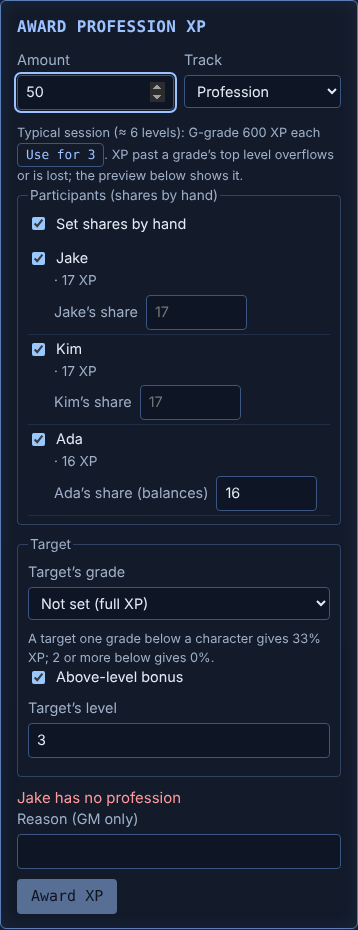
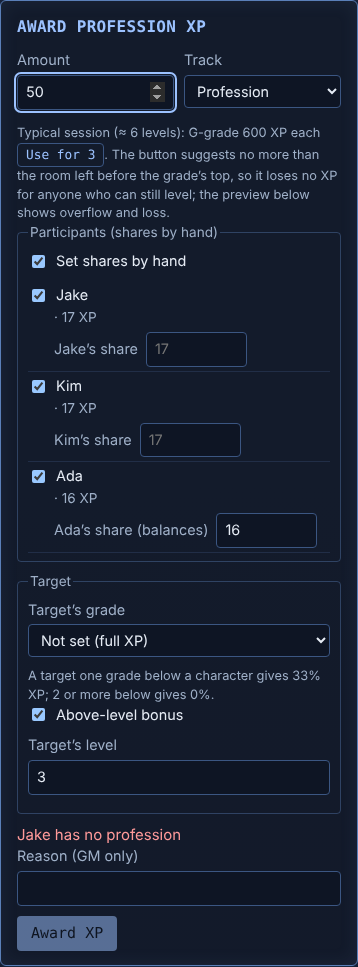
fix(M4.6): review round 2: typical-session button suggests no more than the room left (xpRoom, typicalSessionAward), disabled with none; no level alert before typing; by-hand toggle stays; M4.6 box
Claude-Session: https://claude.ai/code/session_01K2rTSae7CMw5DvYtxWoQVi

diff --git a/apps/web/src/gm/XpAward.tsx b/apps/web/src/gm/XpAward.tsx
@@ -2,6 +2,7 @@ import { useState, type FormEvent } from 'react';
 import {
   balancedShares,
   previewXpShares,
+  typicalSessionAward,
   typicalSessionXp,
   type CampaignState,
   type XpPreview,
@@ -55,7 +56,8 @@ export function XpAward({ client, state }: { client: LiveClient; state: Campaign
       ? balancedShares(value, chosen.length, fixed)
       : null;
   if (amount.trim() !== '' && !amountOk) shareError = 'The amount must be a whole number above 0';
-  else if (!levelOk) shareError = 'The target’s level must be a whole number of 0 or more';
+  else if (!levelOk && enemyLevel.trim() !== '')
+    shareError = 'The target’s level must be a whole number of 0 or more';
   if (amountOk && shares === null && shareError === null && chosen.length > 0) {
     shareError = `The shares add up to more than ${value} XP`;
   }
@@ -167,24 +169,41 @@ export function XpAward({ client, state }: { client: LiveClient; state: Campaign
             <span key={g}>
               {i > 0 && ' · '}
               {g}-grade {typicalSessionXp(rules, g).toLocaleString('en-US')} XP each{' '}
-              <button
-                type="button"
-                className="secondary small"
-                onClick={() => {
-                  const n = chosen.filter((id) => state.characters[id]?.grade === g).length;
-                  setAmount(String(typicalSessionXp(rules, g) * n));
-                }}
-              >
-                Use for {chosen.filter((id) => state.characters[id]?.grade === g).length}
-              </button>
+              {(() => {
+                const group = chosen
+                  .map((id) => state.characters[id])
+                  .filter((c): c is NonNullable<typeof c> => c?.grade === g);
+                const suggested = typicalSessionAward(rules, g, group);
+                return (
+                  <button
+                    type="button"
+                    className="secondary small"
+                    disabled={suggested === 0}
+                    title={
+                      group.length === 0
+                        ? `No chosen ${g}-grade participants`
+                        : suggested === 0
+                          ? `Every chosen ${g}-grade participant is at the grade’s top`
+                          : `${suggested.toLocaleString('en-US')} XP, split evenly`
+                    }
+                    onClick={() => {
+                      setAmount(String(suggested));
+                      setResult(null);
+                    }}
+                  >
+                    Use for {group.length}
+                  </button>
+                );
+              })()}
             </span>
           ))}
-          . XP past a grade’s top level overflows or is lost; the preview below shows it.
+          . The button suggests no more than the room left before the grade’s top, so it loses no XP
+          for anyone who can still level; the preview below shows overflow and loss.
         </p>
       )}
       <fieldset>
         <legend>Participants ({byHand ? 'shares by hand' : 'even split'})</legend>
-        {chosen.length > 1 && (
+        {(chosen.length > 1 || byHand) && (
           <label className="check">
             <input
               type="checkbox"

diff --git a/packages/engine/test/xpShares.test.ts b/packages/engine/test/xpShares.test.ts
@@ -5,6 +5,8 @@ import {
   defaultRules,
   previewXpAward,
   previewXpShares,
+  typicalSessionAward,
+  xpRoom,
   type Character,
 } from '../src';
 import { kit } from './helpers/events';
@@ -124,5 +126,44 @@ describe('previewXpShares (M4.6)', () => {
     });
     expect(up!.lost).toBe(0);
     expect(up!.levelUps.some((l) => l.track === 'profession' && l.level === 1)).toBe(true);
+  });
+});
+
+describe('typical-session suggestion (M4.6)', () => {
+  it('xpRoom is the XP left to the grade top on class plus profession', () => {
+    // G top is level 4 at 100 XP per level.
+    expect(xpRoom(rules, make('a'))).toBe(400);
+    expect(xpRoom(rules, { ...make('a'), classLevel: 3, xp: { class: 40, profession: 0 } })).toBe(
+      60,
+    );
+    expect(xpRoom(rules, { ...make('a'), classLevel: 4 })).toBe(0);
+    const e: Character = {
+      ...make('e'),
+      grade: 'E',
+      classLevel: 49,
+      professionLevel: 47,
+      profession: 'Alchemist',
+    };
+    expect(xpRoom(rules, e)).toBe(2 * 900);
+    expect(xpRoom({ ...rules, xp: { ...rules.xp, overflow: false } }, make('a'))).toBe(Infinity);
+  });
+  it('suggests the typical session per head, capped by the least room, and loses nothing', () => {
+    const fresh = [make('a'), make('b'), make('c')];
+    // G typical is 6 × 100 = 600 each, but a fresh G character has 400 of room.
+    const amount = typicalSessionAward(rules, 'G', fresh);
+    expect(amount).toBe(1200);
+    const rows = previewXpAward(rules, { a: fresh[0]!, b: fresh[1]!, c: fresh[2]! }, 'class', {
+      amount,
+      participants: fresh.map((c) => ({ characterId: c.id })),
+    });
+    expect(rows.every((r) => r.lost === 0)).toBe(true);
+    const f: Character = { ...make('f'), grade: 'F', classLevel: 5 };
+    expect(typicalSessionAward(rules, 'F', [f])).toBe(6 * 300);
+  });
+  it('ignores capped characters for the cap and is 0 when nobody has room', () => {
+    const capped: Character = { ...make('x'), classLevel: 4 };
+    expect(typicalSessionAward(rules, 'G', [capped, make('a')])).toBe(800);
+    expect(typicalSessionAward(rules, 'G', [capped])).toBe(0);
+    expect(typicalSessionAward(rules, 'G', [])).toBe(0);
   });
 });

diff --git a/packages/engine/src/progression/xp.ts b/packages/engine/src/progression/xp.ts
@@ -3,6 +3,7 @@ import {
   gradeIndexOf,
   isAtCap,
   raceLevel,
+  trackCap,
   type Character,
   type FreePointBatch,
 } from '../character';
@@ -179,6 +180,41 @@ export function shareXp(
 export function typicalSessionXp(rules: RulesConfig, gradeId: string): number {
   const grade = rules.grades[gradeIndexOf(rules, gradeId)] as GradeRules;
   return rules.campaign.typicalLevelsPerSession * grade.xpPerLevel;
+}
+
+/**
+ * XP a character can still use at its current grade before any is lost
+ * (M4.6): the XP left to the top level on the class track plus, with a
+ * profession, on the profession track. Infinity when `xp.overflow` is off
+ * (older campaigns bank XP at the top).
+ */
+export function xpRoom(rules: RulesConfig, character: Character): number {
+  if (!rules.xp.overflow) return Number.POSITIVE_INFINITY;
+  const top = trackCap(rules, character.grade);
+  const per = xpPerLevel(rules, character);
+  const room = (level: number, xp: number) => Math.max(0, (top - level) * per - xp);
+  const cls = room(character.classLevel, character.xp.class);
+  if (character.profession === null) return cls;
+  return cls + room(character.professionLevel, character.xp.profession);
+}
+
+/**
+ * The "typical session" amount for an even split between these characters of
+ * one grade (M4.6): each gets the typical session's XP, or less when someone
+ * has less room left at the grade (so the helper's own suggestion loses
+ * nothing for anyone who can still level). Characters with no room left still
+ * count as participants but do not lower the amount; 0 when none has room.
+ */
+export function typicalSessionAward(
+  rules: RulesConfig,
+  gradeId: string,
+  characters: readonly Character[],
+): number {
+  const typical = typicalSessionXp(rules, gradeId);
+  const rooms = characters.map((c) => xpRoom(rules, c)).filter((r) => r > 0);
+  if (rooms.length === 0) return 0;
+  const each = Math.min(typical, ...rooms);
+  return each * characters.length;
 }
 
 /** Whole above-level bonus XP on top of a share (floored, float noise removed). */

diff --git a/e2e/M4.6.spec.ts b/e2e/M4.6.spec.ts
@@ -53,10 +53,14 @@ test('the GM previews and awards XP with a custom split', async ({ browser }) =>
   const [jake, kim, ada] = ids as [string, string, string];
 
   const award = gm.getByRole('form', { name: 'Award class XP' });
-  // The typical-session helper fills the amount for the three G-grade characters.
+  // The typical-session helper fills the amount for the three G-grade characters:
+  // 600 each is typical, but a fresh G character has only 400 XP of room, so it
+  // suggests 3 × 400 and nothing is lost.
   await expect(award.getByTestId('typical-session')).toContainText('G-grade 600 XP each');
   await award.getByRole('button', { name: 'Use for 3' }).click();
-  await expect(award.getByLabel('Amount')).toHaveValue('1800');
+  await expect(award.getByLabel('Amount')).toHaveValue('1200');
+  await expect(award.getByTestId(`levels-${jake}`)).toHaveText(' · class lvl 0 → 4');
+  await expect(award.getByTestId('xp-lost')).toHaveCount(0);
 
   // Even split of 1,000: 334 / 333 / 333, each to class level 3 or 4 with XP lost past the top.
   await award.getByLabel('Amount').fill('1000');
@@ -87,6 +91,8 @@ test('the GM previews and awards XP with a custom split', async ({ browser }) =>
   await award.getByLabel('Target’s grade').selectOption({ label: 'Not set (full XP)' });
   // The above-level bonus: a level 3 target gives +30% to level-0 characters.
   await award.getByRole('checkbox', { name: 'Above-level bonus' }).check();
+  // No error before the GM has typed a level.
+  await expect(award.getByRole('alert')).toHaveCount(0);
   await award.getByLabel('Target’s level').fill('3');
   await expect(award.getByTestId(`gained-${kim}`)).toHaveText(' · gains 130');
   await award.getByLabel('Reason (GM only)').fill('The Rake Canyons ambush');

diff --git a/docs/REVIEW-LOG.md b/docs/REVIEW-LOG.md
@@ -658,3 +658,4 @@
 - Full e2e suite green locally at 21f6506 (47 e2e).
 - Round 1 (9e0e5d2..21f6506): 0 H, 3 M, 6 L. Preview matches the reducer (same `shareXp`/`awardXp`). Fixed in the next commit: M1 grade-gap ⅓/0 untested → unit test in xpShares.test.ts (e2e comment corrected: G target = own grade); M2 profession track untested → unit test (refused without a profession, levels with one) and e2e checks the refusal; M3 typical-session helper silent about loss past the grade top → helper says XP past the top overflows or is lost. Lows fixed: messages for a bad amount or target level; "XP awarded" clears on edit. Lows kept: `bonus` math duplicated from `shareXp`; form-only screenshot named 1366x768 (a full-page one exists); typed shares and by-hand mode persist after an award.
 - Round 2 required (3 Mediums), not run: no time before the hard stop. Next run launches it first.
+- Round 2 (sonnet, run ff3fd214, 9e0e5d2..f5cfa3a): 0 H, 2 M, 8 L; round-1 fixes confirmed. Fixed: M1 the typical-session button suggested 6 levels' XP even when the grade's top is closer (fresh G characters lost 200 each) → new engine `xpRoom` and `typicalSessionAward`: per head the typical amount or the least room left among chosen characters who can still level, so the suggestion loses nothing (unit tests; e2e now expects 1,200 and no loss); M2 "Use for 0" set the amount to 0 → button disabled with a reason in its title when nobody of that grade is chosen or all are at the top. Lows fixed: no level alert before the GM types a target level; the by-hand toggle stays visible while by-hand is on. Lows kept: no-participant state has only a disabled button; a blank non-last share splits the rest with the other blanks (legend names the balancing share only); overflow to the other track and the ⅓ target factor are unit-tested, not shown in e2e; element-crop screenshot name; e2e needs `npm run build` first (as every spec); screenshot churn from re-running the suite. Fixes verified myself (`npm run check` 925 green, M4.6 spec green). Box checked.

diff --git a/docs/ROADMAP.md b/docs/ROADMAP.md
@@ -490,7 +490,7 @@ work: Q44–Q48 and Q52.
   added automatically.
 - [x] **M4.5 Party dashboard.** Card per character with flags (pending
   selection/evolution/marks/merges); full sheet edit as audited events.
-- [ ] **M4.6 XP award dialog.** Amount, class or profession, participant
+- [x] **M4.6 XP award dialog.** Amount, class or profession, participant
   checkboxes, even integer split by default with auto-balanced last share,
   editable shares, above-level bonus toggle, target grade (⅓ / no XP for
   lower grades, MQ.10: `enemyGrade`), level-up preview with overflow and
